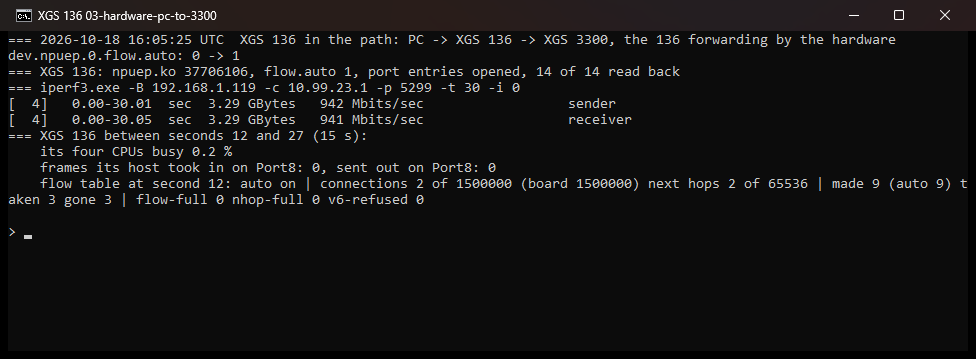
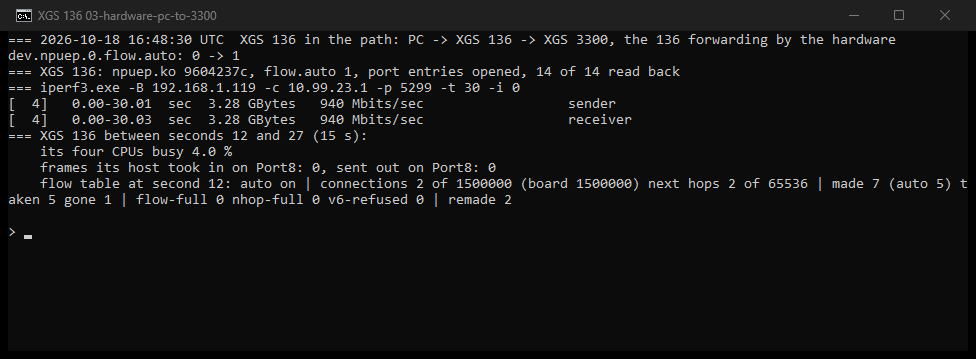
docs: the XGS 136 forwarding by its coprocessor, measured and photographed

diff --git a/docs/INDEX.md b/docs/INDEX.md
@@ -5,7 +5,7 @@
 > tool. Each page's date is the line at its top; how long it may go unread is set by its kind,
 > in [REVIEW.md](REVIEW.md). Where to start reading is [README.md](README.md).
 
-**124 pages** in 9 kinds. The next one due is [Where the knowledge in this tree came from](provenance.md), on 2026-12-10.
+**125 pages** in 9 kinds. The next one due is [Where the knowledge in this tree came from](provenance.md), on 2026-12-10.
 
 **Jump to:** [The hub and the pages beside it](#kind-top) &middot; [The guide - what the README used to carry](#kind-guide) &middot; [The coprocessor families](#kind-families) &middot; [The appliances as objects](#kind-hardware) &middot; [The ARMADA driver](#kind-npuep) &middot; [The OCTEON TX driver](#kind-octep) &middot; [OCTEON TX provenance](#kind-octeontx) &middot; [The measurements](#kind-measurements) &middot; [The findings, dated](#kind-findings)
 
@@ -67,80 +67,81 @@
 | | <a name="kind-octeontx"></a>**OCTEON TX provenance** &nbsp;<sub>`docs/octeontx/`</sub> | **2** | **90 days** | | |
 | 48 | [Where the OCTEON TX knowledge came from](octeontx/provenance.md) | | | 2026-10-12 | 2027-01-10 |
 | 49 | [Capturing the XGS 3300 while it runs its own firmware](octeontx/sfos-capture-plan.md) | | | 2026-10-11 | 2027-01-09 |
-| | <a name="kind-measurements"></a>**The measurements** &nbsp;<sub>`docs/measurements/`</sub> | **5** | **180 days** | | |
+| | <a name="kind-measurements"></a>**The measurements** &nbsp;<sub>`docs/measurements/`</sub> | **6** | **180 days** | | |
 | 50 | [Measurements, by appliance](measurements/README.md) | | | 2026-10-17 | 2027-04-15 |
 | 51 | [Three appliances on one bench, 2026-10-17](measurements/bench-2026-10-17.md) | | | 2026-10-17 | 2027-04-15 |
 | 52 | [IPv6 through the coprocessor, and the XGS 136's transmit queues, 2026-10-18](measurements/ipv6-and-queues-2026-10-18.md) | | | 2026-10-18 | 2027-04-16 |
 | 53 | [The MTU, from 576 to 9000, on the three-appliance bench](measurements/mtu-2026-10-17.md) | | | 2026-10-17 | 2027-04-15 |
-| 54 | [XGS 3300 - what has been measured on it](measurements/xgs3300.md) | | | 2026-10-17 | 2027-04-15 |
+| 54 | [The XGS 136 forwarding by its coprocessor, measured, 2026-10-18](measurements/xgs136-hardware-2026-10-18.md) | | | 2026-10-18 | 2027-04-16 |
+| 55 | [XGS 3300 - what has been measured on it](measurements/xgs3300.md) | | | 2026-10-17 | 2027-04-15 |
 | | <a name="kind-findings"></a>**The findings, dated** &nbsp;<sub>`docs/findings/`</sub> | **70** | **365 days** | | |
-| 55 | [AES-CBC with an HMAC runs at two thirds of GCM's rate](findings/a-block-cipher-at-two-thirds.md) | | | 2026-10-12 | 2027-10-12 |
-| 56 | [AES-CBC with an HMAC on the ARMADA: the four hashes taken, both ways in hardware](findings/a-block-cipher-on-the-armada.md) | | | 2026-10-14 | 2027-10-14 |
-| 57 | [Every command cost ten milliseconds on the ARMADA](findings/a-command-cost-ten-milliseconds-on-the-armada.md) | | | 2026-10-18 | 2027-10-18 |
-| 58 | [A connection that collides with itself](findings/a-connection-that-collides-with-itself.md) | | | 2026-10-11 | 2027-10-11 |
-| 59 | [A flow the host named, dropped by the ARMADA's fast path: the first action on this family](findings/a-flow-dropped-by-the-armada.md) | | | 2026-10-14 | 2027-10-14 |
-| 60 | [A frame was accelerated](findings/a-frame-was-accelerated.md) | | | 2026-10-11 | 2027-10-11 |
-| 61 | [A give-back is answered at once](findings/a-give-back-is-answered-at-once.md) | | | 2026-10-11 | 2027-10-11 |
-| 62 | [A hundred polls a second](findings/a-hundred-polls-a-second-on-the-armada.md) | | | 2026-10-17 | 2027-10-17 |
-| 63 | [A packet is not a buffer](findings/a-packet-is-not-a-buffer.md) | | | 2026-10-11 | 2027-10-11 |
-| 64 | [A ring that fills](findings/a-ring-that-fills.md) | | | 2026-10-12 | 2027-10-12 |
-| 65 | [A sleeping thread held the RPC lock: the control channel's lock had to be sleepable](findings/a-sleeping-thread-held-the-rpc-lock.md) | | | 2026-10-14 | 2027-10-14 |
-| 66 | [A slot holds both directions](findings/a-slot-holds-both-directions.md) | | | 2026-10-12 | 2027-10-12 |
-| 67 | [A state that sees nothing runs out](findings/a-state-that-sees-nothing-runs-out.md) | | | 2026-10-11 | 2027-10-11 |
-| 68 | [A visit is not a pass](findings/a-visit-is-not-a-pass.md) | | | 2026-10-12 | 2027-10-12 |
-| 69 | [A replay window on the ARMADA: the engine's check, measured with a replayed frame](findings/a-window-on-the-armada.md) | | | 2026-10-14 | 2027-10-14 |
-| 70 | [A window wider than 256 ends the coprocessor's replay drops](findings/a-window-wider-than-256.md) | | | 2026-10-12 | 2027-10-12 |
-| 71 | [Accelerating a flow breaks it, and it always has](findings/accelerating-a-flow-breaks-it.md) | | | 2026-10-11 | 2027-10-11 |
-| 72 | [AMD's platform crypto engine breaks IPsec AES-GCM on the XGS 136 host](findings/amd-ccp-breaks-ipsec-gcm-on-the-xgs-136-host.md) | | | 2026-10-17 | 2027-10-17 |
-| 73 | [Asking pf, and two ways of reaching it that do not work](findings/asking-pf.md) | | | 2026-10-11 | 2027-10-11 |
-| 74 | [Both ends exist, and the counter means something smaller than it was read as](findings/both-ends-exist.md) | | | 2026-10-11 | 2027-10-11 |
-| 75 | [Under ESN, what arrives stays with the kernel](findings/esn-inbound-stays-with-the-kernel.md) | | | 2026-10-12 | 2027-10-12 |
-| 76 | [ESP behind UDP on the ARMADA: NAT-T, both ways in hardware](findings/esp-behind-udp-on-the-armada.md) | | | 2026-10-14 | 2027-10-14 |
-| 77 | [The UDP header is the host's to write](findings/esp-behind-udp.md) | | | 2026-10-12 | 2027-10-12 |
-| 78 | [Every next hop named an empty cage on the ARMADA, and the entries the flow maker needed](findings/every-next-hop-named-an-empty-cage-on-the-armada.md) | | | 2026-10-18 | 2027-10-18 |
-| 79 | [Fragmentation before the envelope on the ARMADA, and a neighbour not yet resolved](findings/fragmentation-before-the-envelope-on-the-armada.md) | | | 2026-10-14 | 2027-10-14 |
-| 80 | [GCM-12 is the kernel's no, transport mode the vendor's](findings/gcm-12-and-transport-are-not-ours.md) | | | 2026-10-12 | 2027-10-12 |
-| 81 | [Installed first, taken second](findings/installed-first-taken-second.md) | | | 2026-10-12 | 2027-10-12 |
-| 82 | [IPv6 inside the tunnel, delivered](findings/ipv6-inside-the-tunnel.md) | | | 2026-10-12 | 2027-10-12 |
-| 83 | [A connection made between polls](findings/made-between-polls.md) | | | 2026-10-11 | 2027-10-11 |
-| 84 | [`LO_MFLOW_READ`: a claim withdrawn, and the instrument decoded two days later](findings/mflow-read-is-not-decoded.md) | | | 2026-10-11 | 2027-10-11 |
-| 85 | [The NetAgent transaction is not serialised, and `npuep` already fixed it](findings/nwa-transaction-lock.md) | | | 2026-10-16 | 2027-10-16 |
-| 86 | [One connection, two microflows: the table the coprocessor expects](findings/one-connection-two-microflows.md) | | | 2026-10-11 | 2027-10-11 |
-| 87 | [One encryptor per association](findings/one-encryptor-per-association.md) | | | 2026-10-12 | 2027-10-12 |
-| 88 | [One next hop for many flows on the ARMADA: the next-hop table is shared](findings/one-next-hop-for-many-flows-on-the-armada.md) | | | 2026-10-14 | 2027-10-14 |
-| 89 | [Half the connections kept one strict state](findings/one-state-strict.md) | | | 2026-10-11 | 2027-10-11 |
-| 90 | [Reading the frame settled it, and the fault was in the request all along](findings/reading-the-frame-settled-it.md) | | | 2026-10-11 | 2027-10-11 |
-| 91 | [The bridge cannot be asked, so the flow answers](findings/the-bridge-cannot-be-asked.md) | | | 2026-10-11 | 2027-10-11 |
-| 92 | [The association belongs to an interface, and that was the whole refusal](findings/the-crypto-engine-is-fed.md) | | | 2026-10-11 | 2027-10-11 |
-| 93 | [The crypto path completes, and the counter that said otherwise was never the one to read](findings/the-crypto-path-completes.md) | | | 2026-10-11 | 2027-10-11 |
-| 94 | [The decrypted frame is dropped on the ARMADA: ~~the receive model is not the OCTEON TX's~~](findings/the-decrypted-frame-is-dropped-on-the-armada.md) | | | 2026-10-14 | 2027-10-14 |
-| 95 | [The driver accelerates a flow on the ARMADA: FLOW_CREATE_FP, and the microflow goes active](findings/the-driver-accelerates-a-flow-on-the-armada.md) | | | 2026-10-14 | 2027-10-14 |
-| 96 | [The engine accepts the frame, and no completion path is armed](findings/the-engine-accepts-and-nothing-returns.md) | | | 2026-10-11 | 2027-10-11 |
-| 97 | [The engine decrypts inbound ESP on the ARMADA: an accepted association, decrypting in hardware](findings/the-engine-decrypts-inbound-esp-on-the-armada.md) | | | 2026-10-14 | 2027-10-14 |
-| 98 | [The engine encrypts outbound ESP on the ARMADA: the transmit side, and the two doors to it](findings/the-engine-encrypts-outbound-esp-on-the-armada.md) | | | 2026-10-14 | 2027-10-14 |
-| 99 | [The engine hands up the decrypted frame on the ARMADA: the OCTEON TX's receive model after all](findings/the-engine-hands-up-the-decrypted-frame-on-the-armada.md) | | | 2026-10-14 | 2027-10-14 |
-| 100 | [The engine takes an association on the ARMADA: SA_ADD is accepted](findings/the-engine-takes-an-association-on-the-armada.md) | | | 2026-10-14 | 2027-10-14 |
-| 101 | [The entry first, then the gate, then the flow table: the ARMADA's chain, measured](findings/the-entry-then-the-gate-on-the-armada.md) | | | 2026-10-14 | 2027-10-14 |
-| 102 | [The flow carries the association](findings/the-flow-carries-the-association.md) | | | 2026-10-12 | 2027-10-12 |
-| 103 | [The driver's flow table on the ARMADA begins: the candidates, and the vnet that killed the sweep](findings/the-flow-table-on-the-armada-begins.md) | | | 2026-10-14 | 2027-10-14 |
-| 104 | [The frames arrive, and TCP will not have them](findings/the-frames-arrive.md) | | | 2026-10-11 | 2027-10-11 |
-| 105 | [The handle is the index plus one](findings/the-handle-is-the-index-plus-one.md) | | | 2026-10-11 | 2027-10-11 |
-| 106 | [The handlers were readable all along](findings/the-handlers-were-readable.md) | | | 2026-10-11 | 2027-10-11 |
-| 107 | [The host answers through the tunnel on the ARMADA: the receive termination](findings/the-host-answers-through-the-tunnel-on-the-armada.md) | | | 2026-10-14 | 2027-10-14 |
-| 108 | [The kernel drives the coprocessor](findings/the-kernel-drives-the-coprocessor.md) | | | 2026-10-12 | 2027-10-12 |
-| 109 | [The kernel offers an association on the ARMADA: the IPsec offload contract is wired](findings/the-kernel-offers-an-association-on-the-armada.md) | | | 2026-10-14 | 2027-10-14 |
-| 110 | [The MTU is the LIF's, and a frame is as many buffers as it needs](findings/the-mtu-is-the-lifs.md) | | | 2026-10-17 | 2027-10-17 |
-| 111 | [The outbound half was programmed without its translation](findings/the-outbound-half-was-untranslated.md) | | | 2026-10-11 | 2027-10-11 |
-| 112 | [The outer header can be IPv6](findings/the-outer-header-can-be-ipv6.md) | | | 2026-10-12 | 2027-10-12 |
-| 113 | [The resolver asked lo0 for a neighbour: `looutput: af=35 unexpected`, once a second](findings/the-resolver-asked-lo0-for-a-neighbour.md) | | | 2026-10-14 | 2027-10-14 |
-| 114 | [The revision barrier on the ARMADA: a ruleset reload discards every offloaded flow](findings/the-revision-barrier-on-the-armada.md) | | | 2026-10-14 | 2027-10-14 |
-| 115 | [The receive ring was the ceiling](findings/the-ring-was-the-ceiling.md) | | | 2026-10-11 | 2027-10-11 |
-| 116 | [The second acknowledge: measured, and made unnecessary](findings/the-second-acknowledge.md) | | | 2026-10-11 | 2027-10-11 |
-| 117 | [The sensors answer on the host's own bus, and the bus had been there all along](findings/the-sensors-answer-on-the-host-bus.md) | | | 2026-10-13 | 2027-10-13 |
-| 118 | [A microflow is inert until its state says `MF_ACTIVE`](findings/the-state-is-the-gate.md) | | | 2026-10-11 | 2027-10-11 |
-| 119 | [The sweep accelerates flows on its own on the ARMADA: flow.auto, a flow table, and a keepalive](findings/the-sweep-accelerates-on-its-own-on-the-armada.md) | | | 2026-10-14 | 2027-10-14 |
-| 120 | [A flow table, a sweep, and the panic that came with them](findings/the-sweep-and-the-panic.md) | | | 2026-10-11 | 2027-10-11 |
-| 121 | [The switch dropped IPv6's neighbour solicitations on the ARMADA](findings/the-switch-drops-multicast-on-the-armada.md) | | | 2026-10-18 | 2027-10-18 |
-| 122 | [The encrypted frames are not lost, and the trigger cannot keep up](findings/the-trigger-is-capture-limited.md) | | | 2026-10-11 | 2027-10-11 |
-| 123 | [The way back keeps up](findings/the-way-back-keeps-up.md) | | | 2026-10-12 | 2027-10-12 |
-| 124 | [Address translation lives in the connection, not the microflow](findings/translation-is-in-the-connection.md) | | | 2026-10-11 | 2027-10-11 |
+| 56 | [AES-CBC with an HMAC runs at two thirds of GCM's rate](findings/a-block-cipher-at-two-thirds.md) | | | 2026-10-12 | 2027-10-12 |
+| 57 | [AES-CBC with an HMAC on the ARMADA: the four hashes taken, both ways in hardware](findings/a-block-cipher-on-the-armada.md) | | | 2026-10-14 | 2027-10-14 |
+| 58 | [Every command cost ten milliseconds on the ARMADA](findings/a-command-cost-ten-milliseconds-on-the-armada.md) | | | 2026-10-18 | 2027-10-18 |
+| 59 | [A connection that collides with itself](findings/a-connection-that-collides-with-itself.md) | | | 2026-10-11 | 2027-10-11 |
+| 60 | [A flow the host named, dropped by the ARMADA's fast path: the first action on this family](findings/a-flow-dropped-by-the-armada.md) | | | 2026-10-14 | 2027-10-14 |
+| 61 | [A frame was accelerated](findings/a-frame-was-accelerated.md) | | | 2026-10-11 | 2027-10-11 |
+| 62 | [A give-back is answered at once](findings/a-give-back-is-answered-at-once.md) | | | 2026-10-11 | 2027-10-11 |
+| 63 | [A hundred polls a second](findings/a-hundred-polls-a-second-on-the-armada.md) | | | 2026-10-17 | 2027-10-17 |
+| 64 | [A packet is not a buffer](findings/a-packet-is-not-a-buffer.md) | | | 2026-10-11 | 2027-10-11 |
+| 65 | [A ring that fills](findings/a-ring-that-fills.md) | | | 2026-10-12 | 2027-10-12 |
+| 66 | [A sleeping thread held the RPC lock: the control channel's lock had to be sleepable](findings/a-sleeping-thread-held-the-rpc-lock.md) | | | 2026-10-14 | 2027-10-14 |
+| 67 | [A slot holds both directions](findings/a-slot-holds-both-directions.md) | | | 2026-10-12 | 2027-10-12 |
+| 68 | [A state that sees nothing runs out](findings/a-state-that-sees-nothing-runs-out.md) | | | 2026-10-11 | 2027-10-11 |
+| 69 | [A visit is not a pass](findings/a-visit-is-not-a-pass.md) | | | 2026-10-12 | 2027-10-12 |
+| 70 | [A replay window on the ARMADA: the engine's check, measured with a replayed frame](findings/a-window-on-the-armada.md) | | | 2026-10-14 | 2027-10-14 |
+| 71 | [A window wider than 256 ends the coprocessor's replay drops](findings/a-window-wider-than-256.md) | | | 2026-10-12 | 2027-10-12 |
+| 72 | [Accelerating a flow breaks it, and it always has](findings/accelerating-a-flow-breaks-it.md) | | | 2026-10-11 | 2027-10-11 |
+| 73 | [AMD's platform crypto engine breaks IPsec AES-GCM on the XGS 136 host](findings/amd-ccp-breaks-ipsec-gcm-on-the-xgs-136-host.md) | | | 2026-10-17 | 2027-10-17 |
+| 74 | [Asking pf, and two ways of reaching it that do not work](findings/asking-pf.md) | | | 2026-10-11 | 2027-10-11 |
+| 75 | [Both ends exist, and the counter means something smaller than it was read as](findings/both-ends-exist.md) | | | 2026-10-11 | 2027-10-11 |
+| 76 | [Under ESN, what arrives stays with the kernel](findings/esn-inbound-stays-with-the-kernel.md) | | | 2026-10-12 | 2027-10-12 |
+| 77 | [ESP behind UDP on the ARMADA: NAT-T, both ways in hardware](findings/esp-behind-udp-on-the-armada.md) | | | 2026-10-14 | 2027-10-14 |
+| 78 | [The UDP header is the host's to write](findings/esp-behind-udp.md) | | | 2026-10-12 | 2027-10-12 |
+| 79 | [Every next hop named an empty cage on the ARMADA, and the entries the flow maker needed](findings/every-next-hop-named-an-empty-cage-on-the-armada.md) | | | 2026-10-18 | 2027-10-18 |
+| 80 | [Fragmentation before the envelope on the ARMADA, and a neighbour not yet resolved](findings/fragmentation-before-the-envelope-on-the-armada.md) | | | 2026-10-14 | 2027-10-14 |
+| 81 | [GCM-12 is the kernel's no, transport mode the vendor's](findings/gcm-12-and-transport-are-not-ours.md) | | | 2026-10-12 | 2027-10-12 |
+| 82 | [Installed first, taken second](findings/installed-first-taken-second.md) | | | 2026-10-12 | 2027-10-12 |
+| 83 | [IPv6 inside the tunnel, delivered](findings/ipv6-inside-the-tunnel.md) | | | 2026-10-12 | 2027-10-12 |
+| 84 | [A connection made between polls](findings/made-between-polls.md) | | | 2026-10-11 | 2027-10-11 |
+| 85 | [`LO_MFLOW_READ`: a claim withdrawn, and the instrument decoded two days later](findings/mflow-read-is-not-decoded.md) | | | 2026-10-11 | 2027-10-11 |
+| 86 | [The NetAgent transaction is not serialised, and `npuep` already fixed it](findings/nwa-transaction-lock.md) | | | 2026-10-16 | 2027-10-16 |
+| 87 | [One connection, two microflows: the table the coprocessor expects](findings/one-connection-two-microflows.md) | | | 2026-10-11 | 2027-10-11 |
+| 88 | [One encryptor per association](findings/one-encryptor-per-association.md) | | | 2026-10-12 | 2027-10-12 |
+| 89 | [One next hop for many flows on the ARMADA: the next-hop table is shared](findings/one-next-hop-for-many-flows-on-the-armada.md) | | | 2026-10-14 | 2027-10-14 |
+| 90 | [Half the connections kept one strict state](findings/one-state-strict.md) | | | 2026-10-11 | 2027-10-11 |
+| 91 | [Reading the frame settled it, and the fault was in the request all along](findings/reading-the-frame-settled-it.md) | | | 2026-10-11 | 2027-10-11 |
+| 92 | [The bridge cannot be asked, so the flow answers](findings/the-bridge-cannot-be-asked.md) | | | 2026-10-11 | 2027-10-11 |
+| 93 | [The association belongs to an interface, and that was the whole refusal](findings/the-crypto-engine-is-fed.md) | | | 2026-10-11 | 2027-10-11 |
+| 94 | [The crypto path completes, and the counter that said otherwise was never the one to read](findings/the-crypto-path-completes.md) | | | 2026-10-11 | 2027-10-11 |
+| 95 | [The decrypted frame is dropped on the ARMADA: ~~the receive model is not the OCTEON TX's~~](findings/the-decrypted-frame-is-dropped-on-the-armada.md) | | | 2026-10-14 | 2027-10-14 |
+| 96 | [The driver accelerates a flow on the ARMADA: FLOW_CREATE_FP, and the microflow goes active](findings/the-driver-accelerates-a-flow-on-the-armada.md) | | | 2026-10-14 | 2027-10-14 |
+| 97 | [The engine accepts the frame, and no completion path is armed](findings/the-engine-accepts-and-nothing-returns.md) | | | 2026-10-11 | 2027-10-11 |
+| 98 | [The engine decrypts inbound ESP on the ARMADA: an accepted association, decrypting in hardware](findings/the-engine-decrypts-inbound-esp-on-the-armada.md) | | | 2026-10-14 | 2027-10-14 |
+| 99 | [The engine encrypts outbound ESP on the ARMADA: the transmit side, and the two doors to it](findings/the-engine-encrypts-outbound-esp-on-the-armada.md) | | | 2026-10-14 | 2027-10-14 |
+| 100 | [The engine hands up the decrypted frame on the ARMADA: the OCTEON TX's receive model after all](findings/the-engine-hands-up-the-decrypted-frame-on-the-armada.md) | | | 2026-10-14 | 2027-10-14 |
+| 101 | [The engine takes an association on the ARMADA: SA_ADD is accepted](findings/the-engine-takes-an-association-on-the-armada.md) | | | 2026-10-14 | 2027-10-14 |
+| 102 | [The entry first, then the gate, then the flow table: the ARMADA's chain, measured](findings/the-entry-then-the-gate-on-the-armada.md) | | | 2026-10-14 | 2027-10-14 |
+| 103 | [The flow carries the association](findings/the-flow-carries-the-association.md) | | | 2026-10-12 | 2027-10-12 |
+| 104 | [The driver's flow table on the ARMADA begins: the candidates, and the vnet that killed the sweep](findings/the-flow-table-on-the-armada-begins.md) | | | 2026-10-14 | 2027-10-14 |
+| 105 | [The frames arrive, and TCP will not have them](findings/the-frames-arrive.md) | | | 2026-10-11 | 2027-10-11 |
+| 106 | [The handle is the index plus one](findings/the-handle-is-the-index-plus-one.md) | | | 2026-10-11 | 2027-10-11 |
+| 107 | [The handlers were readable all along](findings/the-handlers-were-readable.md) | | | 2026-10-11 | 2027-10-11 |
+| 108 | [The host answers through the tunnel on the ARMADA: the receive termination](findings/the-host-answers-through-the-tunnel-on-the-armada.md) | | | 2026-10-14 | 2027-10-14 |
+| 109 | [The kernel drives the coprocessor](findings/the-kernel-drives-the-coprocessor.md) | | | 2026-10-12 | 2027-10-12 |
+| 110 | [The kernel offers an association on the ARMADA: the IPsec offload contract is wired](findings/the-kernel-offers-an-association-on-the-armada.md) | | | 2026-10-14 | 2027-10-14 |
+| 111 | [The MTU is the LIF's, and a frame is as many buffers as it needs](findings/the-mtu-is-the-lifs.md) | | | 2026-10-17 | 2027-10-17 |
+| 112 | [The outbound half was programmed without its translation](findings/the-outbound-half-was-untranslated.md) | | | 2026-10-11 | 2027-10-11 |
+| 113 | [The outer header can be IPv6](findings/the-outer-header-can-be-ipv6.md) | | | 2026-10-12 | 2027-10-12 |
+| 114 | [The resolver asked lo0 for a neighbour: `looutput: af=35 unexpected`, once a second](findings/the-resolver-asked-lo0-for-a-neighbour.md) | | | 2026-10-14 | 2027-10-14 |
+| 115 | [The revision barrier on the ARMADA: a ruleset reload discards every offloaded flow](findings/the-revision-barrier-on-the-armada.md) | | | 2026-10-14 | 2027-10-14 |
+| 116 | [The receive ring was the ceiling](findings/the-ring-was-the-ceiling.md) | | | 2026-10-11 | 2027-10-11 |
+| 117 | [The second acknowledge: measured, and made unnecessary](findings/the-second-acknowledge.md) | | | 2026-10-11 | 2027-10-11 |
+| 118 | [The sensors answer on the host's own bus, and the bus had been there all along](findings/the-sensors-answer-on-the-host-bus.md) | | | 2026-10-13 | 2027-10-13 |
+| 119 | [A microflow is inert until its state says `MF_ACTIVE`](findings/the-state-is-the-gate.md) | | | 2026-10-11 | 2027-10-11 |
+| 120 | [The sweep accelerates flows on its own on the ARMADA: flow.auto, a flow table, and a keepalive](findings/the-sweep-accelerates-on-its-own-on-the-armada.md) | | | 2026-10-14 | 2027-10-14 |
+| 121 | [A flow table, a sweep, and the panic that came with them](findings/the-sweep-and-the-panic.md) | | | 2026-10-11 | 2027-10-11 |
+| 122 | [The switch dropped IPv6's neighbour solicitations on the ARMADA](findings/the-switch-drops-multicast-on-the-armada.md) | | | 2026-10-18 | 2027-10-18 |
+| 123 | [The encrypted frames are not lost, and the trigger cannot keep up](findings/the-trigger-is-capture-limited.md) | | | 2026-10-11 | 2027-10-11 |
+| 124 | [The way back keeps up](findings/the-way-back-keeps-up.md) | | | 2026-10-12 | 2027-10-12 |
+| 125 | [Address translation lives in the connection, not the microflow](findings/translation-is-in-the-connection.md) | | | 2026-10-11 | 2027-10-11 |

diff --git a/docs/measurements/xgs136-hardware-2026-10-18.md b/docs/measurements/xgs136-hardware-2026-10-18.md
@@ -1,0 +1,60 @@
+<!-- reviewed: 2026-10-18 -->
+# The XGS 136 forwarding by its coprocessor, measured, 2026-10-18
+
+The first measurement of a connection crossing the XGS 136 in its coprocessor's fast path rather than
+through the host: the same traffic, the same ports, once with the host forwarding it and once with the
+flow maker on, both ways. Each run was taken in a window of its own and photographed when it finished.
+
+Before this day no connection made in hardware on this appliance had delivered a frame: every next
+hop had named an empty cage ([the finding](../findings/every-next-hop-named-an-empty-cage-on-the-armada.md)),
+the flow maker needed the ports' interface entries opened by hand, and a connection the fast path let
+go was never made again. All three were fixed the same day; this is what they give.
+
+## The bench
+
+| link | from | to | medium |
+|---|---|---|---|
+| the PC | the PC's gigabit port | the XGS 136's Port3, a member of its LAN bridge | copper, 1 Gbit/s |
+| the gigabit link | the XGS 136's Port8, a routed /30 | the second XGS 3300's Port8 | copper, 1 Gbit/s |
+
+- **Load:** iperf3 for Windows on the PC, bound to its address on the XGS 136's LAN - Windows sends by
+  the interface that owns the source address, so the path is the 136's - to iperf3 on the second XGS
+  3300. One TCP stream, thirty seconds; `-R` for the other direction. The figure is iperf3's.
+- **Driver:** `npuep.ko` with md5 `9604237c`, built on the appliance from the branch that went out with
+  this page; the 136's settings left as they are, the flow maker set at run time - `flow.auto` 0 for
+  the host, 1 for the hardware, which opens the fourteen interface entries.
+- **What the host carried** is read between seconds 12 and 27 of each run, after the flow maker has had
+  time to make the connection: the XGS 136's own CPU time across its four cores, and the frames its
+  host counted on Port8. A connection in hardware sends the host nothing.
+
+## Results
+
+| the XGS 136 forwarding by | direction | iperf3 | its CPUs busy | frames its host took on Port8, in / out (15 s) |
+|---|---|---|---|---|
+| the host | PC to XGS 3300 | 940 Mbit/s | 18.7 % | 1,256,988 / 1,256,985 |
+| the host | XGS 3300 to PC | 919 Mbit/s | 14.1 % | 1,250,359 / 622,822 |
+| **the coprocessor** | PC to XGS 3300 | **940 Mbit/s** | **4.0 %** | **0 / 0** |
+| **the coprocessor** | XGS 3300 to PC | **899 Mbit/s** | **0.3 %** | **1 / 0** |
+
+![The host, PC to the XGS 3300](../images/xgs136-hw/01-host-pc-to-3300.png)
+![The host, the XGS 3300 to the PC](../images/xgs136-hw/02-host-3300-to-pc.png)
+![The coprocessor, PC to the XGS 3300](../images/xgs136-hw/03-hardware-pc-to-3300.png)
+![The coprocessor, the XGS 3300 to the PC](../images/xgs136-hw/04-hardware-3300-to-pc.png)
+
+## What it means, and what it does not
+
+- **The link is the ceiling both ways.** A gigabit port on each side, and the host already reached it:
+  the fast path does not make this path faster, it takes the work off the host - from a fifth of four
+  cores to nothing measurable. The figure that would show the coprocessor's own ceiling needs a faster
+  pair of ports on this appliance and a load that can fill them.
+- **The fourth run is 20 Mbit/s under the second.** The fast path let that download go eleven times in
+  thirty seconds (`remade` went from 2 to 13) - its rule for a connection that retransmits - and each
+  time the frames crossed the host until the next sweep made the connection again, about a second
+  later. Followed second by second in a run of twenty seconds, 1,306,539 of 1,373,887 frames went wire
+  to wire in the fast path and 67,366 to the host; the one give-back in it cost two seconds at 373 and
+  265 Mbit/s, the other eighteen ran at 949. The XGS 3300 revives such a connection in place within
+  frames; that is the next step here.
+- **The 4.0 % of the third run** is not the connection's carrying: Port8's counters did not move, so
+  none of its frames crossed the host, and the figure is the host's other work in those fifteen seconds.
+- **No translation on this path**: Port3 to Port8 is routed without NAT. A connection the firewall
+  translates, LAN to WAN, is yet to be measured on this appliance after the fixes.

diff --git a/docs/README.md b/docs/README.md
@@ -9,7 +9,7 @@
 | install it, or update it | [guide/installing.md](guide/installing.md) - its note on DNS first |
 | understand how it works | [guide/how-it-works.md](guide/how-it-works.md), then a driver's pages: [npuep/](npuep/) for the ARMADA, [octep/](octep/) for the OCTEON TX |
 | know what it cannot do | [guide/limitations.md](guide/limitations.md) |
-| see the numbers, and how each was taken | [measurements/](measurements/) - the newest is [IPv6 and the transmit queues](measurements/ipv6-and-queues-2026-10-18.md) |
+| see the numbers, and how each was taken | [measurements/](measurements/) - the newest is [the XGS 136 forwarding by its coprocessor](measurements/xgs136-hardware-2026-10-18.md) |
 | find out why something is the way it is | [findings/](findings/), dated, in the order below |
 | know which board belongs to which family | [guide/families-and-hardware.md](guide/families-and-hardware.md), [families/](families/) |
 | take it to another operating system | [npuep/porting-notes.md](npuep/porting-notes.md), [provenance.md](provenance.md) |
@@ -31,7 +31,7 @@ withdrawn stays on the page, struck through, with what replaced it after.
 | [octep/](octep/) | **The OCTEON TX driver's design**, what `contrib/octep` is built against: where a flow comes from, how it binds to a `pf` state, the LIF table, the reload barrier, the kernel's IPsec surface, and offloading as a setting |
 | [findings/](findings/) | **What was found, dated**: one page per fault or discovery, in the order below |
 | [families/](families/) | **The six coprocessor families** and the long reference pages for OCTEON TX |
-| [measurements/](measurements/) | **The numbers, one page per appliance**, with how each was taken and what it does not mean - and two for the three-appliance bench of 2026-10-17: [clear text and IPsec](measurements/bench-2026-10-17.md), [the MTU from 576 to 9000](measurements/mtu-2026-10-17.md), and [IPv6 and the transmit queues](measurements/ipv6-and-queues-2026-10-18.md) of the next night |
+| [measurements/](measurements/) | **The numbers, one page per appliance**, with how each was taken and what it does not mean - and two for the three-appliance bench of 2026-10-17: [clear text and IPsec](measurements/bench-2026-10-17.md), [the MTU from 576 to 9000](measurements/mtu-2026-10-17.md), [IPv6 and the transmit queues](measurements/ipv6-and-queues-2026-10-18.md) of the next night, and [the XGS 136 forwarding by its coprocessor](measurements/xgs136-hardware-2026-10-18.md) the day after |
 | [images/](images/) | The photographs and diagrams, one folder per appliance, and [readme/](images/readme/) for the README's banner and status board (`tools/readme-art.py` draws them) |
 
 Five pages stay at the top: [the-road.md](the-road.md), how it was found, drawn;
@@ -45,7 +45,7 @@ upstream, and the plan for capturing the XGS 3300 under its own firmware.
 
 | | hardware | measurements | photographs | driver |
 |---|---|---|---|---|
-| **XGS 136**, ARMADA CN913x | [hardware/xgs136.md](hardware/xgs136.md) | ~~none yet~~ [the bench](measurements/bench-2026-10-17.md), [the MTU](measurements/mtu-2026-10-17.md) | [images/xgs136/](images/xgs136/) | `contrib/npuep`, [npuep/](npuep/) |
+| **XGS 136**, ARMADA CN913x | [hardware/xgs136.md](hardware/xgs136.md) | ~~none yet~~ [the bench](measurements/bench-2026-10-17.md), [the MTU](measurements/mtu-2026-10-17.md), [in its coprocessor](measurements/xgs136-hardware-2026-10-18.md) | [images/xgs136/](images/xgs136/) | `contrib/npuep`, [npuep/](npuep/) |
 | **XGS 3300**, OCTEON TX CN83xx | [hardware/xgs3300.md](hardware/xgs3300.md), [families/octeon-tx-peripherals.md](families/octeon-tx-peripherals.md) | [measurements/xgs3300.md](measurements/xgs3300.md) | [images/xgs3300/](images/xgs3300/) | `contrib/octep`, [octep/](octep/), [families/octeon-tx.md](families/octeon-tx.md) |
 
 ## The ARMADA driver, `npuep/`

diff --git a/docs/families/parity.md b/docs/families/parity.md
@@ -36,7 +36,7 @@ The completion figures the families' own pages weigh are **96%** for the XGS 330
 | | flow writes posted without a wait | ✅ the high-priority ring | ⬜ each command waited for, 138 microseconds |
 | | IPv4, with its translation | ✅ | 🟡 ~~✅ LAN to WAN, [measured](../findings/one-next-hop-for-many-flows-on-the-armada.md)~~ the table was measured then, not the delivery: every next hop named an empty cage until 2026-10-18 ([#483](https://github.com/AbdelmonemAwad/os-xgs-npu/issues/483)); delivered in hardware since, [measured](../findings/every-next-hop-named-an-empty-cage-on-the-armada.md) from a LAN port to a routed one without translation |
 | | IPv6 | ✅ 9.24 and 9.27 Gbit/s, [measured](../measurements/ipv6-and-queues-2026-10-18.md#ipv6-through-the-xgs-3300) | 🟡 built, not measured |
-| | a connection handed back, revived in place | ✅ 6,100 revived, none refused | ⬜ taken back only when pf lets go |
+| | a connection handed back, revived in place | ✅ 6,100 revived, none refused | 🟡 ~~⬜ taken back only when pf lets go~~ made again from its frames' identities within a sweep, about a second, since 2026-10-18 - 95 % of a download in hardware through its give-backs, [measured](../measurements/xgs136-hardware-2026-10-18.md); not yet in place within frames |
 | | a connection returned to the host by hand, a never-offloaded list | ✅ tested live, 2026-10-18 | ✅ tested live with two entries opened by hand ([#483](https://github.com/AbdelmonemAwad/os-xgs-npu/issues/483)) |
 | | every flow voided by a ruleset reload | ✅ | ✅ |
 | | a thousand connections at once | 🟡 run on 2026-10-17, its page not published | ⬜ not run |
